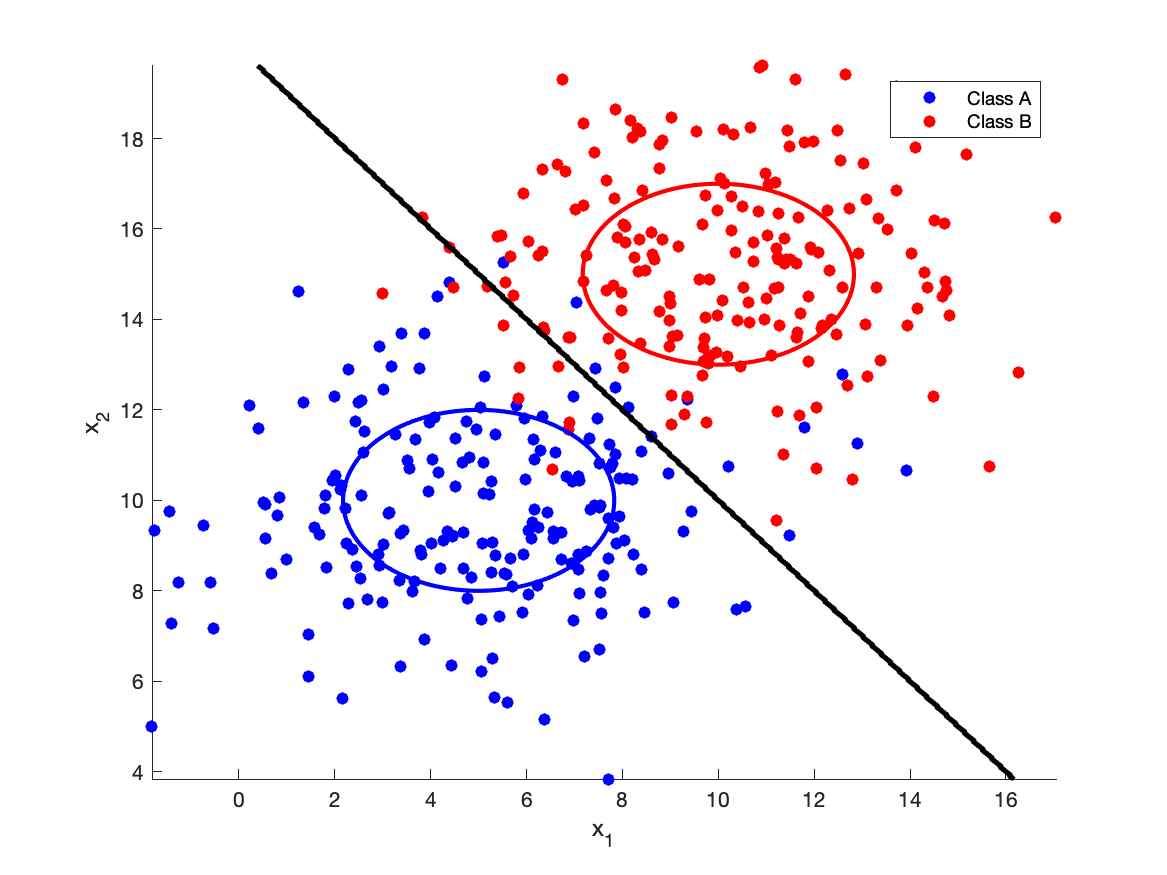
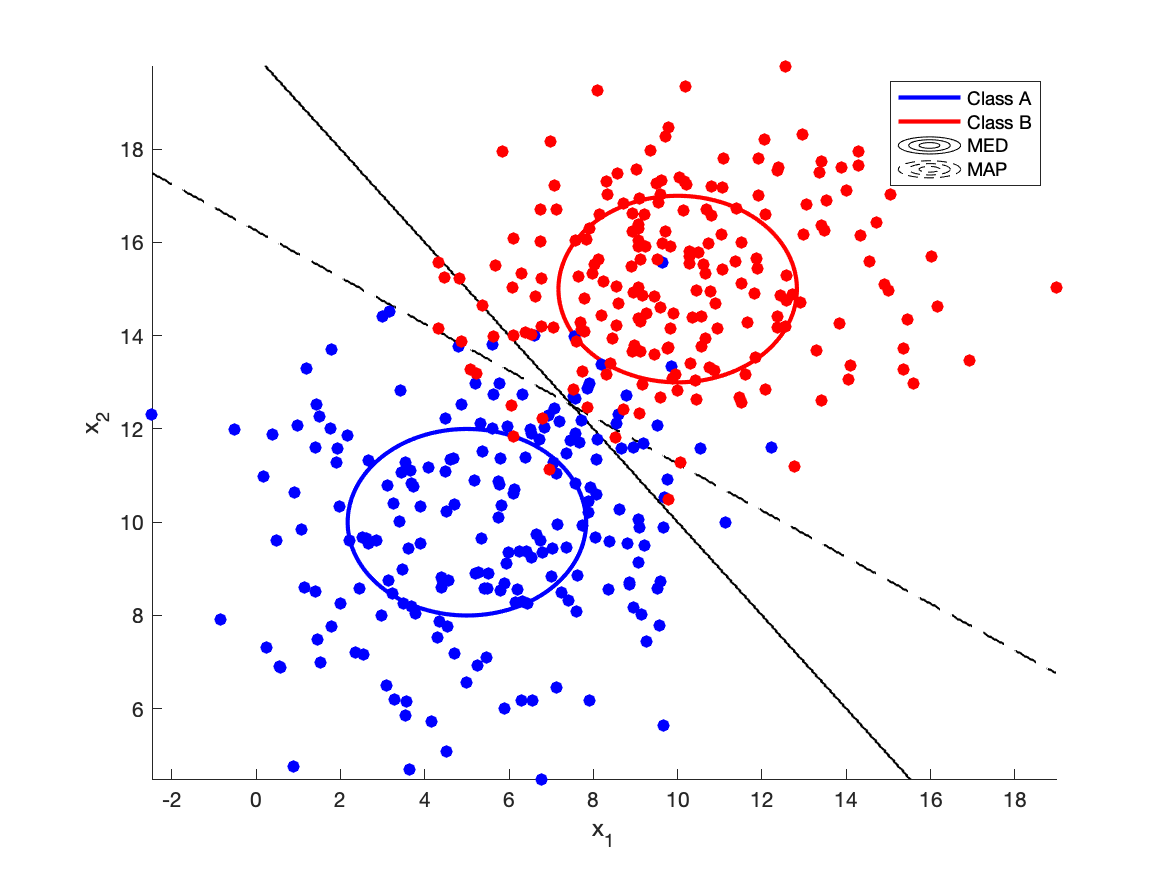
MAP classifier

diff --git a/main.m b/main.m
@@ -6,19 +6,25 @@ class_b = ClassData(200, [10, 15]', [8 0; 0 4]);
 
 figure;
 hold on;
+
+% Unit contour
+plot(class_a_x, class_a_y, 'b-', 'LineWidth', 2);	
+plot(class_b_x, class_b_y, 'r-', 'LineWidth', 2);
+
+% Minimum Euclidean Distance
+[x1, x2, classification] = ClassData.Classify([class_a class_b], 'MED');
+contour(x1, x2, classification, 'k');
+
+% Maximum a Posteriori 
+[x1, x2, classification] = ClassData.Classify([class_a class_b], 'MAP');
+contour(x1, x2, classification, 'k--');
+
 scatter(class_a.Data(1, :), class_a.Data(2, :), 'b', 'filled');
 scatter(class_b.Data(1, :), class_b.Data(2, :), 'r', 'filled');
 
-plot(class_a_x, class_a_y, 'b-', 'LineWidth', 2);	
-plot(class_b_x, class_b_y, 'r-', 'LineWidth', 2);	
-
-% Minimum Euclidean Distance
-[x1, x2, classification] = ClassData.MED([class_a class_b]);
-contour(x1, x2, classification, 'k', 'LineWidth', 2);
-
 xlabel('x_1');
 ylabel('x_2');
-legend('Class A', 'Class B');
+legend('Class A', 'Class B', 'MED', 'MAP');
 saveas(gcf, "img/class_a_b.png");
 hold off;
 
@@ -32,25 +38,30 @@ class_e = ClassData(150, [10 5]', [10 -5; -5 20]);
 
 figure;
 hold on; 
-scatter(class_c.Data(1, :), class_c.Data(2, :), 'b', 'filled');
-scatter(class_d.Data(1, :), class_d.Data(2, :), 'r', 'filled');
-scatter(class_e.Data(1, :), class_e.Data(2, :), 'k', 'filled');
+
 
 plot(class_c_x, class_c_y, 'b-', 'LineWidth', 2);
 plot(class_d_x, class_d_y, 'r-', 'LineWidth', 2);
 plot(class_e_x, class_e_y, 'k-', 'LineWidth', 2);
 
-[x1, x2, classification] = ClassData.MED([class_c class_d class_e]);
-contour(x1, x2, classification, 'k', 'LineWidth', 2);
+% Minimum Euclidean Distance
+[x1, x2, classification] = ClassData.Classify([class_c class_d class_e], 'MED');
+contour(x1, x2, classification, 'k');
 
+% Maximum a Posteriori
+[x1, x2, classification] = ClassData.Classify([class_c class_d class_e], 'MAP');
+contour(x1, x2, classification, 'k--');
+
+scatter(class_c.Data(1, :), class_c.Data(2, :), 'b', 'filled');
+scatter(class_d.Data(1, :), class_d.Data(2, :), 'r', 'filled');
+scatter(class_e.Data(1, :), class_e.Data(2, :), 'k', 'filled');
 
 xlabel('x_1');
 ylabel('x_2');
-legend('Class C', 'Class D', 'Class E');
+legend('Class C', 'Class D', 'Class E', 'MED', 'MAP');
 saveas(gcf, "img/class_c_d_e.png");
 hold off;
 
-% Part 3: Classifiers
 
 
 

diff --git a/ClassData.m b/ClassData.m
@@ -62,7 +62,7 @@ classdef ClassData
             y = (y1 + y2) / 2 + X * sin(angles) + Y * cos(angles);
          end
             
-         function [x1, x2, classification] = MED(classes)
+         function [x1, x2, classification] = Classify(classes, type)
             % Generate grid from range
             num_points = 500;
             max_data = max([classes.Range], [], 2);
@@ -73,11 +73,29 @@ classdef ClassData
             c=cat(2,A',B');
             x=reshape(c,[],2)';
             % Compute distance & reshape
-            dist = arrayfun(@(z) vecnorm(x-z.Mean), classes, ...
-                'UniformOutput', false);
-            dist = vertcat(dist{:});
-            % Classify and return
-            [~, classification] = min(dist);
+            switch type
+                case 'MED'
+                    dist = arrayfun(@(z) vecnorm(x-z.Mean), classes, ...
+                    'UniformOutput', false);
+                    dist = vertcat(dist{:});
+                    % Classify and return
+                    [~, classification] = min(dist);
+                
+                case 'MAP'
+                    total_n = sum([classes.N]);
+                    % Calculate P(x|A)P(A)
+                    prob = arrayfun(@(z) (z.N/total_n)*Gauss2d(x, ...
+                        z.Mean, z.Covariance), classes, 'UniformOutput', false);
+%                     prob = cellfun(@(x) reshape(x,1,[]), prob, 'un', 0);
+                    prob = vertcat(prob{:});
+                    % Classify and return
+                    [~, classification] = max(prob);
+                    
+                otherwise
+                    disp(strcat('No implementation of', type, 'classifer'));
+                    return;
+            end
+            
             classification = reshape(classification, size(A))';
          end
      end

diff --git a/Gauss2d.m b/Gauss2d.m
@@ -1,0 +1,25 @@
+% Gauss2d 2-D Gaussian pdf
+%
+% This function creates the pdf for a 2D Gaussian
+% random variable
+%
+% INPUTS:
+%   x1 - 1xN vector - range of x1 component
+%   x2 - 1xM vector - range of x2 component
+%   Mu - 2x1 vector - the mean of the random variable
+%   Sigma - 2x2 matrix - the covariance matrix of
+%           the random variable
+%
+% OUTPUT:
+%   Y - NxM matrix - the pdf for the range of x1, x2
+%
+% USAGE (Example):
+%   Y = Gauss2d([-3:0.1:3],[0:0.1:6],[0 3]',[1 1; 1 4])
+
+function Y = Gauss2d(x, Mu, Sigma)
+   Y = zeros(1, size(x, 2));
+   for i=1:size(x, 2)
+       v = x(:, i);
+       Y(i) = exp(-0.5*(v - Mu)'*inv(Sigma)*(v - Mu))/(2*pi*sqrt(det(Sigma)));
+   end
+end
